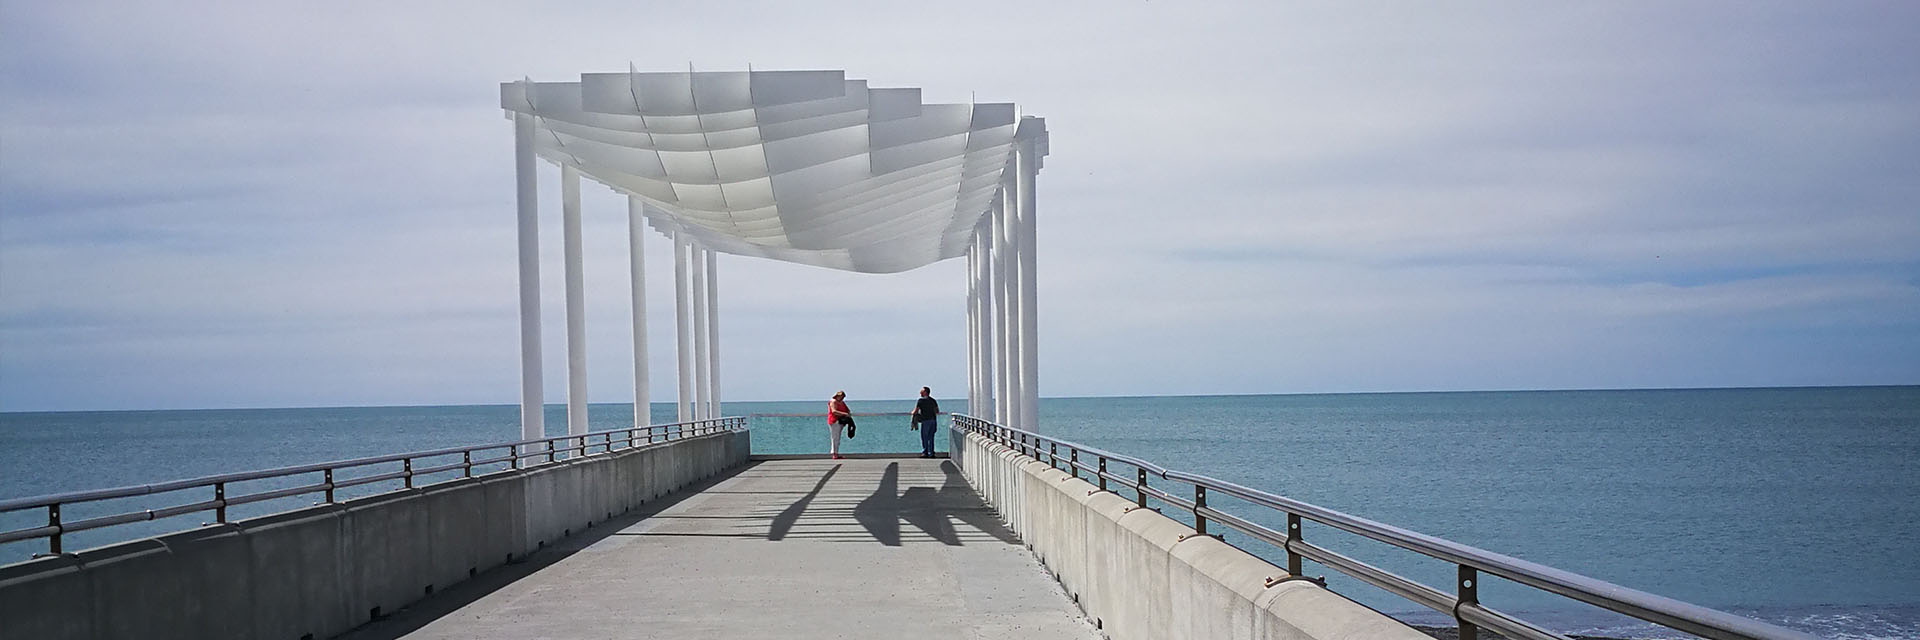
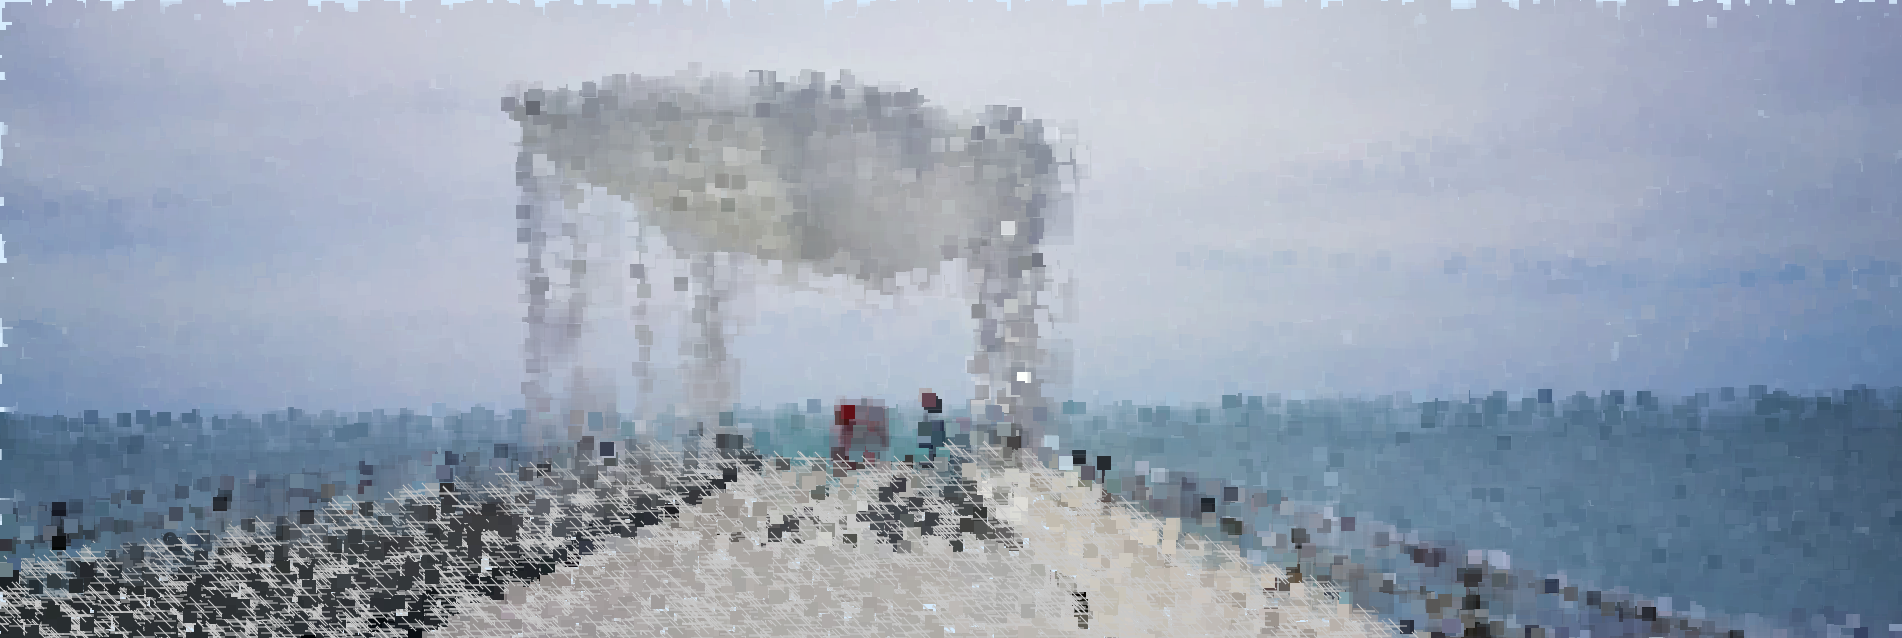
10/06
Done the second one.Change the preview.jpg and thumbnail.png.

diff --git a/sketch.js b/sketch.js
@@ -3,9 +3,9 @@ let maskImg=null;
 let renderCounter=0;
 
 // change these three lines as appropiate
-let sourceFile = "input_1.jpg";
-let maskFile   = "mask_1.png";
-let outputFile = "output_1.png";
+let sourceFile = "input_2.jpg";
+let maskFile   = "mask_2.png";
+let outputFile = "output_2.png";
 
 function preload() {
   sourceImg = loadImage(sourceFile);
@@ -18,7 +18,8 @@ function setup () {
 
   imageMode(CENTER);
   //noStroke();
-  background(97, 73, 38);
+//  background(97, 73, 38);
+  background(214, 235, 253);
   sourceImg.loadPixels();
   maskImg.loadPixels();
 }
@@ -41,11 +42,12 @@ function draw () {
      let pointSize = 10;
      push()
      if(pix[0]<90){
-        fill(pix[0],pix[1],pix[2],200);
+      //  fill(pix[0],pix[1],pix[2],200);
+        fill(pix[0],pix[1],pix[2],50);
         ellipse(x, y, pointSize, pointSize);
      }
      else{
-         fill(pix[0],pix[1],pix[2],80)
+         fill(pix[0],pix[1],pix[2],100)
          rect(x, y, pointSize, pointSize);
      }
      pop()
@@ -56,11 +58,11 @@ if(mask[0] > 150 &&mask[0]<200) {
   let pointSize = 10;
   push()
   if(pix[0]<90){
-      fill(pix[0]*2.5,pix[1]*2.5,pix[2]*2.5,50);
+      fill(pix[0],pix[1],pix[2],10);
       ellipse(x, y, pointSize, pointSize);
   }
   else{
-      fill(pix[0],pix[1],pix[2],20)
+      fill(pix[0],pix[1],pix[2],10)
       rect(x, y, pointSize, pointSize);
   }
   pop()
@@ -80,7 +82,7 @@ if(mask[0] > 150 &&mask[0]<200) {
   if(mask[0] < 100){
       let pointSize = 45;
       noStroke();
-       fill(pix[0],pix[1],pix[2],20);
+       fill(pix[0],pix[1],pix[2],40);
         rect(x, y, pointSize, pointSize);
   }
 }
@@ -93,11 +95,16 @@ if(mask[0] > 150 &&mask[0]<200) {
         stroke(200)
         strokeWeight(1)
 
-        if(mask[0]>50 && mask[0]< 250){
-           let cross = 6
-           fill(pix[0],pix[1],pix[2],40)
-           line(x+1.5*cross, y, x-1.5*cross, y)
-           line(x-cross, y-cross, x+cross, y+cross)
+      // (first picture) if(mask[0]>50 && mask[0]< 250){
+      //     let cross = 6
+      //     fill(pix[0],pix[1],pix[2],40)
+      //     line(x+1.5*cross, y, x-1.5*cross, y)
+      //     line(x-cross, y-cross, x+cross, y+cross)
+           if(mask[0]>50 && mask[0]< 400){
+             let cross =7;
+             //fill(pix[0],pix[1],pix[2],40)
+             line(x+1.5*cross, y, x-1.5*cross, y)
+             line(x-cross, y-cross, x+cross, y+cross)
 
         }
     }

diff --git a/README.md b/README.md
@@ -10,7 +10,7 @@ Try to fix the render page. Done the mask pictures.
 Fix the render page. Try the first picture.
 Try to do the second picture.
 Do some changes on the first picture. Done the first one. Change the preview.jpg and thumbnail.png.
-
+Done the second one.Change the preview.jpg and thumbnail.png.
 
 
 The images above are photos of Wellington CBD algorithmically processed with a lightly modified version of the [p5.js Pointillism example](https://p5js.org/examples/image-pointillism.html). The masks for each photo highlight various objects. Replace this text with your own which explains the source of your photos, masking, and applied algorithm.
